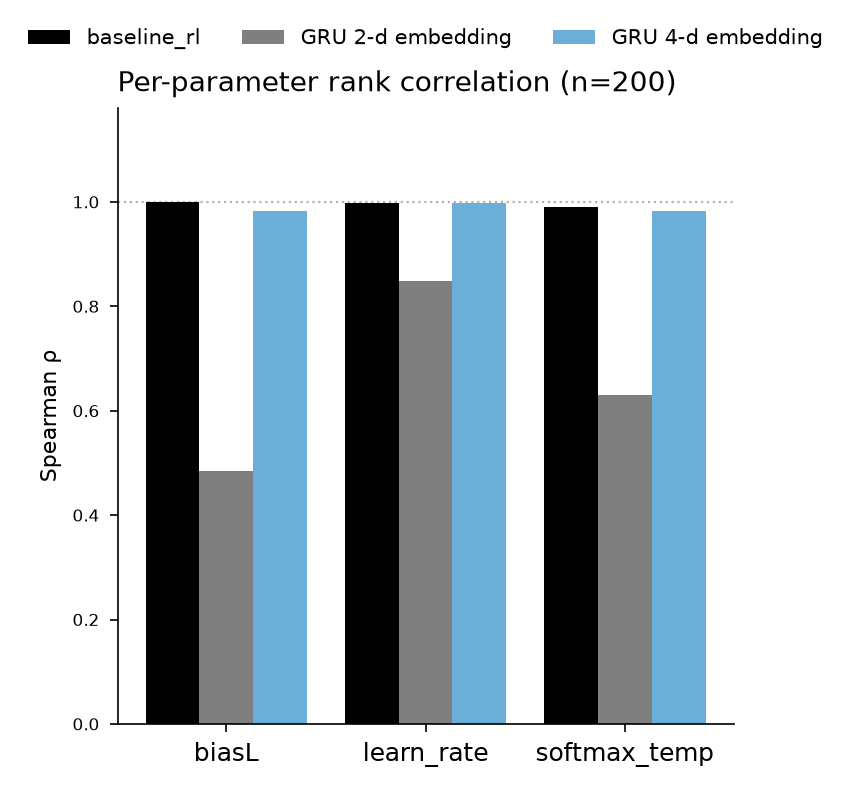
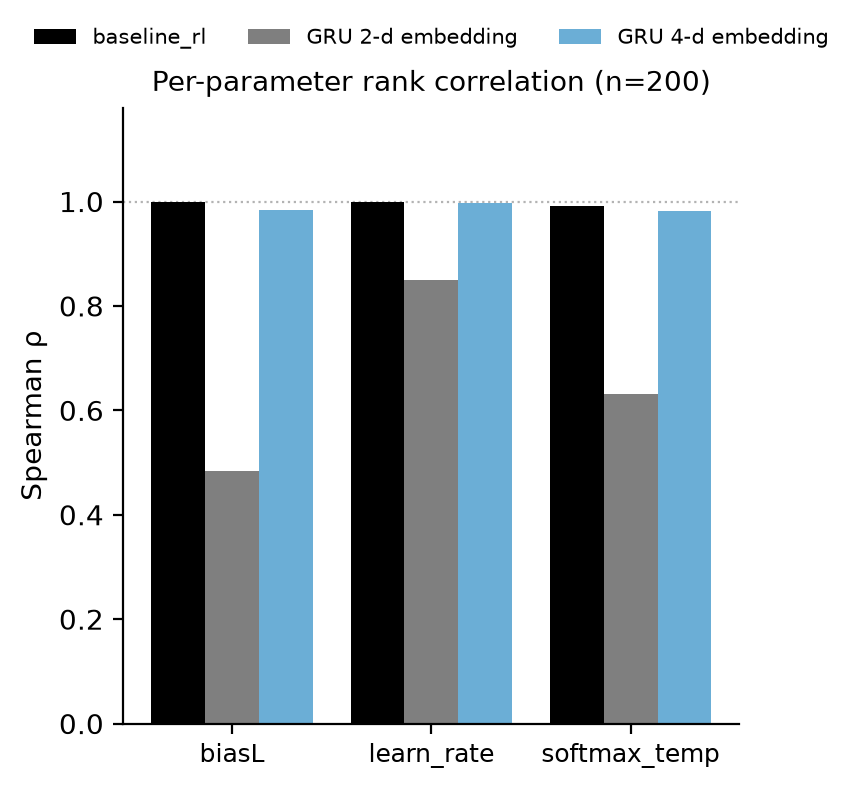
fix(study-04): correct Stage-1 rho figure -- legend was overlapping bars
The first commit of stage1_recovery_rho_figure.py accidentally shipped a pre-fix
draft: legend at loc="lower right" collided with the softmax_temp bars, and the
figure was undersized (4.4x3.8in, ylim 0-1.05) relative to the other four rho
companions. Corrected to match the reviewed/approved version: figsize (5.0, 4.0),
legend moved above the axes (loc="upper center", ncol=3, bbox_to_anchor=(0.5, 1.16)),
ylim extended to 0-1.18 to make room. No data or color changes.

diff --git a/studies/04-gru-vs-disrnn-embedding-recovery/analysis/stage1_recovery_rho_figure.py b/studies/04-gru-vs-disrnn-embedding-recovery/analysis/stage1_recovery_rho_figure.py
@@ -23,7 +23,7 @@ PARAMS = ["biasL", "learn_rate", "softmax_temp"]
 
 def make_figure(gru, baseline, out_png, focus_n=200, hid_focus=16):
     gcol = {"h16e4": "#6baed6", "e2": "#7f7f7f", "base": "#000000"}
-    fig, ax = plt.subplots(figsize=(4.4, 3.8))
+    fig, ax = plt.subplots(figsize=(5.0, 4.0))
 
     xpos = np.arange(3); w = 0.27
     g200 = gru[(gru.hid == hid_focus) & (gru.emb == 4) & (gru.subj == focus_n)].iloc[0]
@@ -33,9 +33,9 @@ def make_figure(gru, baseline, out_png, focus_n=200, hid_focus=16):
     ax.bar(xpos, [g200e2[f"spearman_{p}"] for p in PARAMS], w, color=gcol["e2"], label="GRU 2-d embedding")
     ax.bar(xpos + w, [g200[f"spearman_{p}"] for p in PARAMS], w, color=gcol["h16e4"], label="GRU 4-d embedding")
     ax.axhline(1.0, color="0.7", ls=":", lw=0.8, zorder=0)
-    ax.set_xticks(xpos); ax.set_xticklabels(PARAMS, fontsize=8); ax.set_ylabel("Spearman \u03c1")
-    ax.set_ylim(0, 1.05); ax.set_title(f"Per-parameter rank correlation (n={focus_n})", fontsize=10)
-    ax.legend(fontsize=7, frameon=False, loc="lower right")
+    ax.set_xticks(xpos); ax.set_xticklabels(PARAMS, fontsize=9); ax.set_ylabel("Spearman \u03c1")
+    ax.set_ylim(0, 1.18); ax.set_title(f"Per-parameter rank correlation (n={focus_n})", fontsize=10)
+    ax.legend(fontsize=7.5, frameon=False, loc="upper center", ncol=3, bbox_to_anchor=(0.5, 1.16))
     ax.set_box_aspect(1)
     ax.spines["top"].set_visible(False); ax.spines["right"].set_visible(False)
     fig.savefig(out_png, dpi=200, bbox_inches="tight")